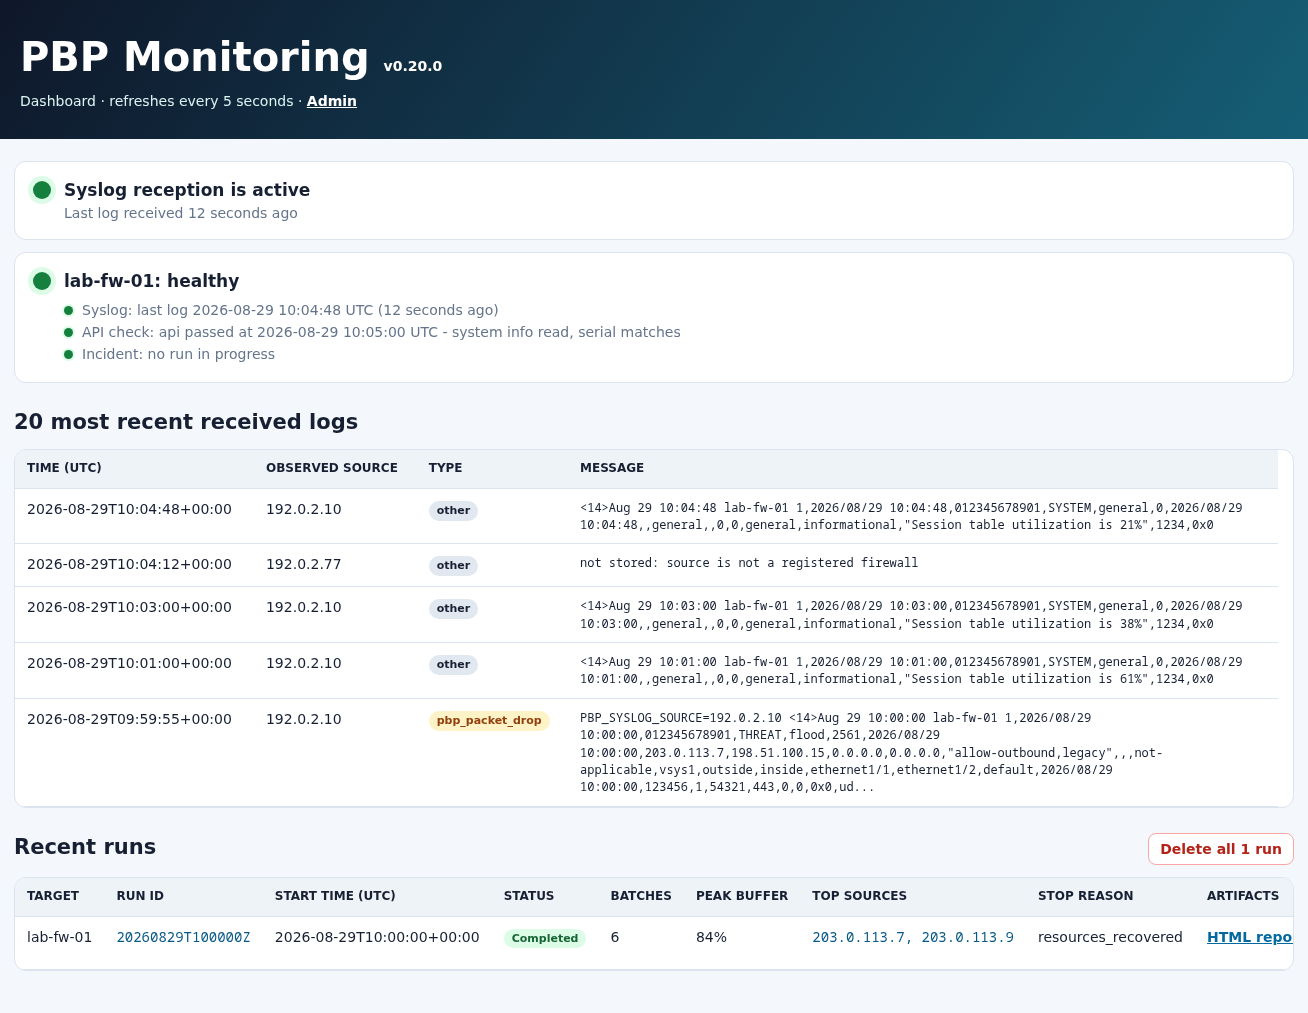
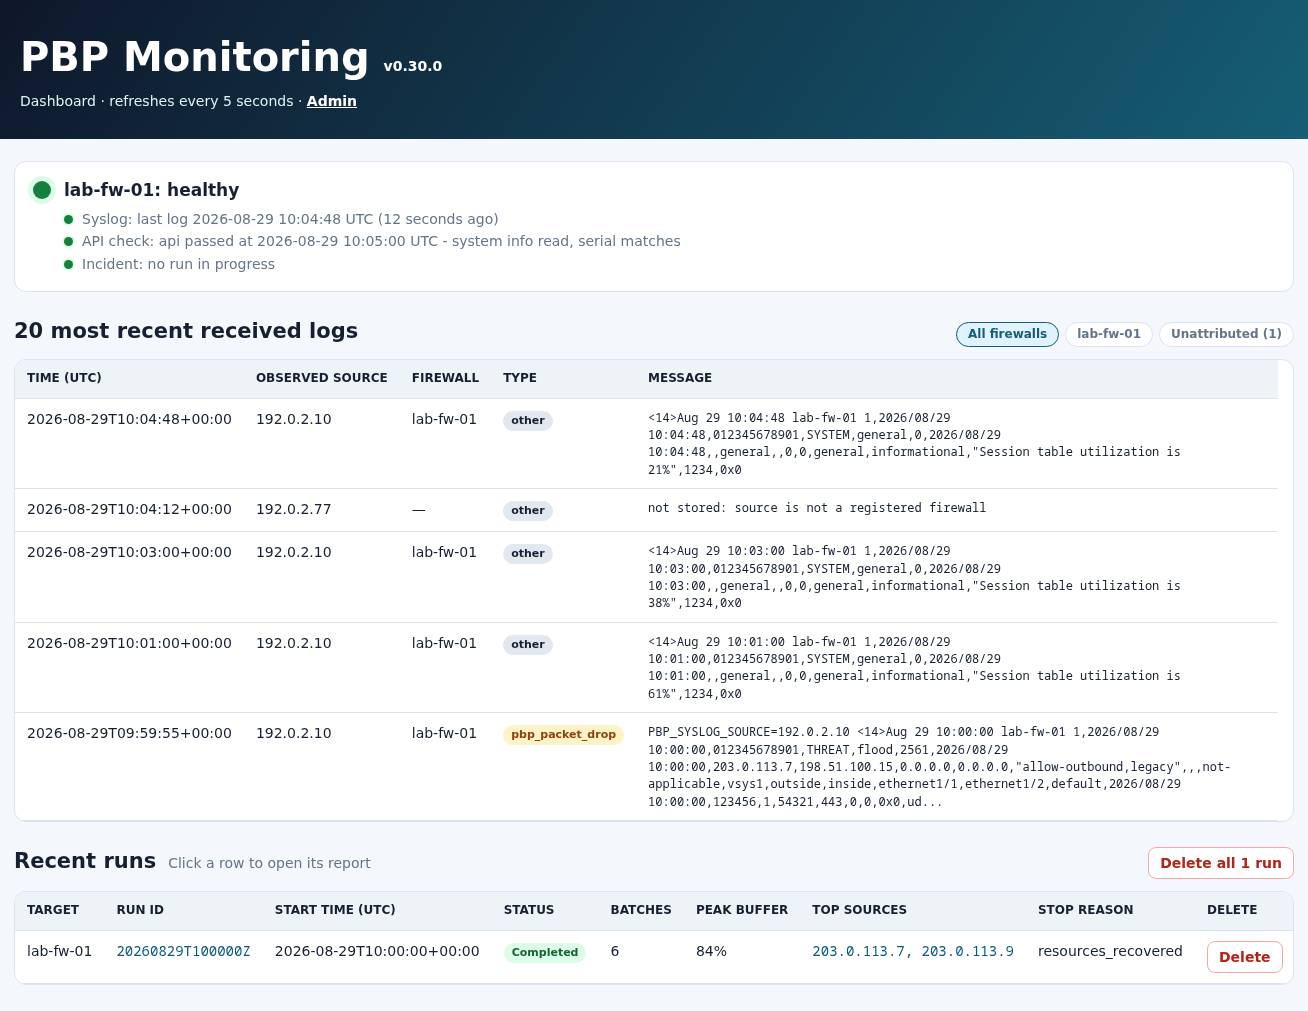
Drop the runs table Artifacts column for the report exports (#170)
The Recent runs table no longer carries an Artifacts column. Its HTML report
link repeated the row itself, which opens the report since 0.28.0, and its
JSONL, TXT, ZIP support and ZIP anonymized links repeated the Exports bar the
Web UI adds above every report, where each export is also named by its weight.
The column was the widest of the table and what forced the runs table to scroll
sideways, hiding the Delete control; the table now fits an ordinary window, and
a run's evidence is chosen in one place, after reading the report.

A run with no report to open, a monitor still collecting or a run whose report
could not be produced, keeps a plain row and offers the records written so far
as a single JSONL link under its status, so evidence stays reachable.

Web UI presentation only: collection, the artifact routes, the stored
report.html, the firewall and the persisted data are untouched.

Refs #169

diff --git a/src/pbp_monitoring/webui.py b/src/pbp_monitoring/webui.py
@@ -867,10 +867,11 @@ def _firewall_headline(
 def _run_cell(content: str, report_url: str | None) -> str:
     """Render a run cell that opens the run's report when it is clicked.
 
-    The report is what the row is read for, so the whole row leads to it rather
-    than only the small link at its end. The anchor fills the cell and inherits
-    its type, so the table still reads as a table. A run whose report does not
-    exist yet, an active monitor, keeps a plain cell.
+    The report is what the row is read for, and it is now the only way to it:
+    the row no longer repeats the exports the report page already offers. The
+    anchor fills the cell and inherits its type, so the table still reads as a
+    table. A run whose report does not exist yet, an active monitor, keeps a
+    plain cell.
     """
     if report_url is None:
         return f"<td>{content}</td>"
@@ -991,18 +992,6 @@ def render_dashboard(
         report_url = (
             f"/reports/{target}/{run_id}/report.html" if run.get("report") else None
         )
-        links: list[str] = []
-        if report_url:
-            links.append(f'<a href="{report_url}">HTML report</a>')
-        if run.get("jsonl"):
-            links.append(f'<a href="/artifacts/{target}/{run_id}/incident.jsonl">JSONL</a>')
-        if run.get("text_files"):
-            links.append(f'<a href="/artifacts/{target}/{run_id}/raw/">TXT ({int(run["text_files"])})</a>')
-        if run.get("jsonl"):
-            links.append(f'<a href="/artifacts/{target}/{run_id}/run.zip">ZIP support</a>')
-            links.append(
-                f'<a class="secondary" href="/artifacts/{target}/{run_id}/run.zip?anonymize=1">ZIP anonymized</a>'
-            )
         active = run.get("status") == "active"
         peak = run.get("peak_packet_buffer_pct")
         peak_text = (
@@ -1014,6 +1003,16 @@ def render_dashboard(
             f"<span class=\"badge {'active' if active else 'done'}\">"
             f"{'Active' if active else 'Completed'}</span>"
         )
+        # A run being collected has no report yet, and a run whose report
+        # could not be produced never will: the row leads nowhere, so the
+        # records written so far are offered here instead. Every other run
+        # is read through its report, which carries the full set of exports.
+        if report_url is None and run.get("jsonl"):
+            badge += (
+                f'<a class="evidence" href="/artifacts/{target}/{run_id}'
+                '/incident.jsonl" title="The records of this run, as JSONL">'
+                "JSONL</a>"
+            )
         row_open = '<tr class="linked">' if report_url else "<tr>"
         run_rows.append(
             row_open
@@ -1025,14 +1024,13 @@ def render_dashboard(
             + _run_cell(_escape(peak_text), report_url)
             + _run_cell(f"<code>{_escape(top_text)}</code>", report_url)
             + _run_cell(_escape(run.get("stop_reason")), report_url)
-            + f"<td>{' &middot; '.join(links) or '&mdash;'}</td>"
             + f"<td>{_delete_cell(csrf, run, queued)}</td>"
             + "</tr>"
         )
         if report_url:
             rows_open_a_report = True
     if not run_rows:
-        run_rows.append('<tr><td colspan="10" class="muted">No run recorded.</td></tr>')
+        run_rows.append('<tr><td colspan="9" class="muted">No run recorded.</td></tr>')
 
     check_interval_hours = float(
         state.get("check_interval_hours") or DEFAULT_SETTINGS["target_check_hours"]
@@ -1106,6 +1104,7 @@ h1{{margin:0;font-size:clamp(25px,4vw,40px)}}header p{{margin:5px 0 0;color:#d9f
 th,td{{padding:10px 12px;border-bottom:1px solid var(--line);text-align:left;vertical-align:top}}th{{position:sticky;top:0;background:#eef3f8;font-size:12px;text-transform:uppercase}}
 td a.rowlink{{display:block;margin:-10px -12px;padding:10px 12px;color:inherit;font-weight:inherit;text-decoration:none}}
 tr.linked:hover td{{background:#eff6ff}}tr.linked:focus-within td{{background:#e0f2fe}}
+td a.evidence{{display:inline-block;margin-top:4px;padding:0;font-size:11px}}
 .message{{max-width:680px;white-space:normal;overflow-wrap:anywhere;font:12px/1.45 ui-monospace,Consolas,monospace}}.badge{{display:inline-block;padding:2px 8px;border-radius:999px;background:#e2e8f0;font-size:11px;font-weight:700}}
 .section-head{{display:flex;align-items:baseline;justify-content:space-between;gap:12px;flex-wrap:wrap;margin-bottom:12px}}.section-head h2{{margin:0}}
 .section-head .muted{{margin-right:auto}}
@@ -1116,7 +1115,7 @@ button.danger{{padding:5px 11px;border:1px solid #fca5a5;border-radius:8px;backg
 </style></head><body><header><h1>PBP Monitoring <small style="font-size:14px;font-weight:600">v{_escape(__version__)}</small></h1><p>Dashboard &middot; refreshes every {max(2, int(refresh_seconds))} seconds &middot; <a style="color:white" href="/admin">Admin</a></p></header><main>
 {status_panel}
 <section><div class="section-head"><h2>20 most recent received logs</h2>{log_filters}</div><div class="table-wrap"><table><thead><tr><th>Time (UTC)</th><th>Observed source</th><th>Firewall</th><th>Type</th><th>Message</th></tr></thead><tbody>{''.join(log_rows)}</tbody></table></div></section>
-<section><div class="section-head"><h2>Recent runs</h2>{runs_hint}{delete_all_control}</div><div class="table-wrap"><table><thead><tr><th>Target</th><th>Run ID</th><th>Start time (UTC)</th><th>Status</th><th>Batches</th><th>Peak buffer</th><th>Top sources</th><th>Stop reason</th><th>Artifacts</th><th>Delete</th></tr></thead><tbody>{''.join(run_rows)}</tbody></table></div></section>
+<section><div class="section-head"><h2>Recent runs</h2>{runs_hint}{delete_all_control}</div><div class="table-wrap"><table><thead><tr><th>Target</th><th>Run ID</th><th>Start time (UTC)</th><th>Status</th><th>Batches</th><th>Peak buffer</th><th>Top sources</th><th>Stop reason</th><th>Delete</th></tr></thead><tbody>{''.join(run_rows)}</tbody></table></div></section>
 </main></body></html>"""
 
 

diff --git a/tests/test_webui.py b/tests/test_webui.py
@@ -303,6 +303,45 @@ class WebUITests(unittest.TestCase):
         # rather than leading to another run's page.
         self.assertNotIn("rowlink", running)
         self.assertNotIn("run-live/report.html", page)
+        # It keeps a single link to the records already written, because no
+        # report page exists yet to offer them.
+        self.assertIn(
+            '<a class="evidence" href="/artifacts/PA-440/run-live/incident.jsonl"',
+            running,
+        )
+        self.assertNotIn("incident.jsonl", completed)
+
+    def test_a_run_whose_report_is_missing_still_offers_its_records(self):
+        page = render_dashboard(
+            {
+                "syslog_healthy": True,
+                "logs": [],
+                "runs": [
+                    {
+                        "target": "PA-440",
+                        "run_id": "run-stopped",
+                        "started_at": "2026-01-01T00:00:00Z",
+                        "status": "completed",
+                        "stop_reason": "resources_recovered",
+                        "cycles": 3,
+                        "peak_packet_buffer_pct": 42,
+                        "top_sources": [],
+                        "report": False,
+                        "jsonl": True,
+                        "text_files": 2,
+                    }
+                ],
+            }
+        )
+
+        # HTML report generation can be disabled, or can fail. The run is then
+        # read from its capture, so the row still leads to it.
+        self.assertNotIn('class="rowlink"', page)
+        self.assertIn(
+            '<a class="evidence" href="/artifacts/PA-440/run-stopped/incident.jsonl"',
+            page,
+        )
+        self.assertNotIn("Click a row to open its report", page)
 
     def test_a_report_lookup_cannot_escape_the_capture_directory(self):
         with tempfile.TemporaryDirectory() as temporary_directory:
@@ -755,15 +794,19 @@ class WebUITests(unittest.TestCase):
                 "2026-08-28T12:00:01+00:00",
             )
             self.assertIn("Syslog reception is active", rendered)
-            self.assertIn("HTML report", rendered)
             self.assertIn("Start time (UTC)", rendered)
             self.assertIn("2026-08-28T12:00:01+00:00", rendered)
             self.assertLess(
                 rendered.index("20 most recent received logs"),
                 rendered.index("Recent runs"),
             )
-            self.assertIn("TXT (1)", rendered)
-            self.assertIn("ZIP support", rendered)
+            # The exports of a completed run are offered by its report,
+            # reached by clicking the row, and by nothing else on this page.
+            self.assertNotIn("Artifacts", rendered)
+            self.assertNotIn("run.zip", rendered)
+            self.assertNotIn("/raw/", rendered)
+            self.assertNotIn("incident.jsonl", rendered)
+            self.assertIn("/reports/PA-440/20260828T120000Z/report.html", rendered)
             self.assertIn("Peak buffer", rendered)
             self.assertIn("62.5%", rendered)
             self.assertIn("203.0.113.7", rendered)

diff --git a/src/pbp_monitoring/__init__.py b/src/pbp_monitoring/__init__.py
@@ -1,3 +1,3 @@
 """PAN-OS packet-buffer incident collector."""
 
-__version__ = "0.29.0"
+__version__ = "0.30.0"

diff --git a/README.md b/README.md
@@ -1,7 +1,7 @@
 # PAN-OS PBP Monitoring — Packet Buffer Protection incident collector
 
 [![CI](https://github.com/tbortolossi/panos-pbp-monitoring/actions/workflows/ci.yml/badge.svg)](https://github.com/tbortolossi/panos-pbp-monitoring/actions/workflows/ci.yml)
-[![Version](https://img.shields.io/badge/version-0.29.0-blue.svg)](https://github.com/tbortolossi/panos-pbp-monitoring/releases/latest)
+[![Version](https://img.shields.io/badge/version-0.30.0-blue.svg)](https://github.com/tbortolossi/panos-pbp-monitoring/releases/latest)
 [![Python](https://img.shields.io/badge/python-3.10%2B-3776ab.svg)](https://www.python.org/downloads/)
 [![Deployment](https://img.shields.io/badge/deployment-Docker%20Compose-2496ed.svg)](compose.yaml)
 [![Read-only](https://img.shields.io/badge/firewall%20impact-read--only-brightgreen.svg)](#safety-guarantees)
@@ -197,10 +197,11 @@ incidents is visible without opening a single report.
 | `raw/startup.txt`, `raw/batch-NNNN.txt` | Human-readable export of every command and response |
 | ZIP support archive | All of the above plus the deployment environment, the redacted configuration, the Syslog messages of the run including refused ones, and `manifest.json` with version, sizes, and digests, for a TAC case |
 
-Every one of those is reachable from the **Recent runs** row — clicking the
-row itself opens the run's report — and, once the report exists, from the
-evidence bar at the top of the report, which names each export by format and by
-weight and carries the way back to the dashboard.
+Clicking a run's row in **Recent runs** opens its report, and every one of
+those artifacts is offered by the evidence bar at the top of that report, which
+names each export by format and by weight and carries the way back to the
+dashboard. A run with no report yet shows a **JSONL** link on its row instead,
+for the records collected so far.
 
 Read-only API validation runs, under `api-checks/<run_id>/`, export the same
 way: a credential, TLS or unsupported-command problem is diagnosable from an

diff --git a/PRD.md b/PRD.md
@@ -561,10 +561,13 @@ key must be backed up and restored together.
     carried by the URL, so it survives the page refresh, and it never applies
     to the per-firewall cards.
 54. A completed run's dashboard row opens that run's HTML report wherever it is
-    clicked, its **Artifacts** and **Delete** cells keeping their own actions,
-    and the report's evidence bar carries a button back to the dashboard. A run
-    whose report does not exist yet, an active monitor, keeps a plain row. Both
-    are plain HTML and CSS: the Web UI serves `script-src 'none'`.
+    clicked, its **Delete** cell keeping its own action, and the report's
+    evidence bar carries a button back to the dashboard. The run table lists no
+    export of its own: the report page is the single place where a run's
+    evidence is chosen. A run with no report to open — an active monitor, or a
+    run whose report could not be produced — keeps a plain row and offers the
+    records collected so far as a **JSONL** link under its status. Both are
+    plain HTML and CSS: the Web UI serves `script-src 'none'`.
 55. An unauthenticated request lands on the authentication page. A successful
     sign-in opens the dashboard once the installation is complete, and the
     configuration page while the recovery key is unacknowledged or no firewall

diff --git a/docs/operations.md b/docs/operations.md
@@ -83,9 +83,8 @@ Each incident contains:
   explains its own CPU charts;
 - `raw/batch-NNNN.txt`: human-readable export for every batch.
 
-The dashboard's **ZIP support** action — also offered by the evidence bar at
-the top of the report itself — downloads the complete run as one
-compressed archive. It includes the JSONL, HTML and TXT evidence plus a
+The **ZIP support** action, in the evidence bar at the top of a run's report,
+downloads the complete run as one compressed archive. It includes the JSONL, HTML and TXT evidence plus a
 `manifest.json` containing the application version, file sizes, and SHA-256
 digests for transfer to another workstation or a support case. It also contains:
 
@@ -177,8 +176,8 @@ during an incident. That is the evidence, and it is why the complete form
 exists. When policy forbids sending it, take the anonymized form instead:
 
 - **Download anonymized bundle** on the admin card;
-- **ZIP anonymized** beside **ZIP support** on every row of the dashboard's run
-  table;
+- **ZIP anonymized** beside **ZIP support** in the evidence bar of a run's
+  report, opened by clicking that run's row on the dashboard;
 - `docker compose exec -T collector pbp-support --anonymize > pbp-support.zip`.
 
 Every address, MAC address, serial number and firewall name becomes a token such

diff --git a/CHANGELOG.md b/CHANGELOG.md
@@ -3,6 +3,24 @@
 All notable changes to this project are documented in this file. The project
 follows [Semantic Versioning](https://semver.org/).
 
+## [0.30.0] - 2026-08-30
+
+### Changed
+
+- **One place to take a run's evidence: its report.** The **Recent runs** table
+  no longer carries an **Artifacts** column. Its **HTML report** link repeated
+  the row itself, which opens the report since 0.28.0, and its **JSONL**,
+  **TXT**, **ZIP support** and **ZIP anonymized** links repeated the Exports bar
+  shown above every report served by the Web UI, where each export is also named
+  by its weight. That column was the widest of the table and what forced the
+  runs table to scroll sideways, pushing **Delete** out of view; the table now
+  fits an ordinary window. A run with no report to open — a monitor still
+  collecting, or a run whose report could not be produced — keeps a plain row
+  and offers the records written so far as a single **JSONL** link under its
+  status, so evidence is never out of reach. Web UI presentation only:
+  collection, the artifact routes, the stored `report.html`, the firewall and
+  the persisted data are untouched. Refs #169.
+
 ## [0.29.0] - 2026-08-30
 
 ### Changed

diff --git a/docs/reporting.md b/docs/reporting.md
@@ -19,8 +19,10 @@ raw batch details](images/incident-report.png)
 ## Opening a report from the dashboard
 
 Clicking anywhere on a completed run's row in **Recent runs** opens that run's
-report, and the **HTML report** link in the row's **Artifacts** cell does the
-same. A run still being collected has no report yet, so its row stays plain.
+report. That is the only way in, and it is why the row no longer carries a
+column of export links: the report page itself offers them, named by weight.
+A run still being collected has no report yet, so its row stays plain and shows
+a single **JSONL** link under its status, for the records written so far.
 
 The report opened that way carries an evidence bar above it: a **Back to
 dashboard** button, the firewall and the run the page belongs to, then the
